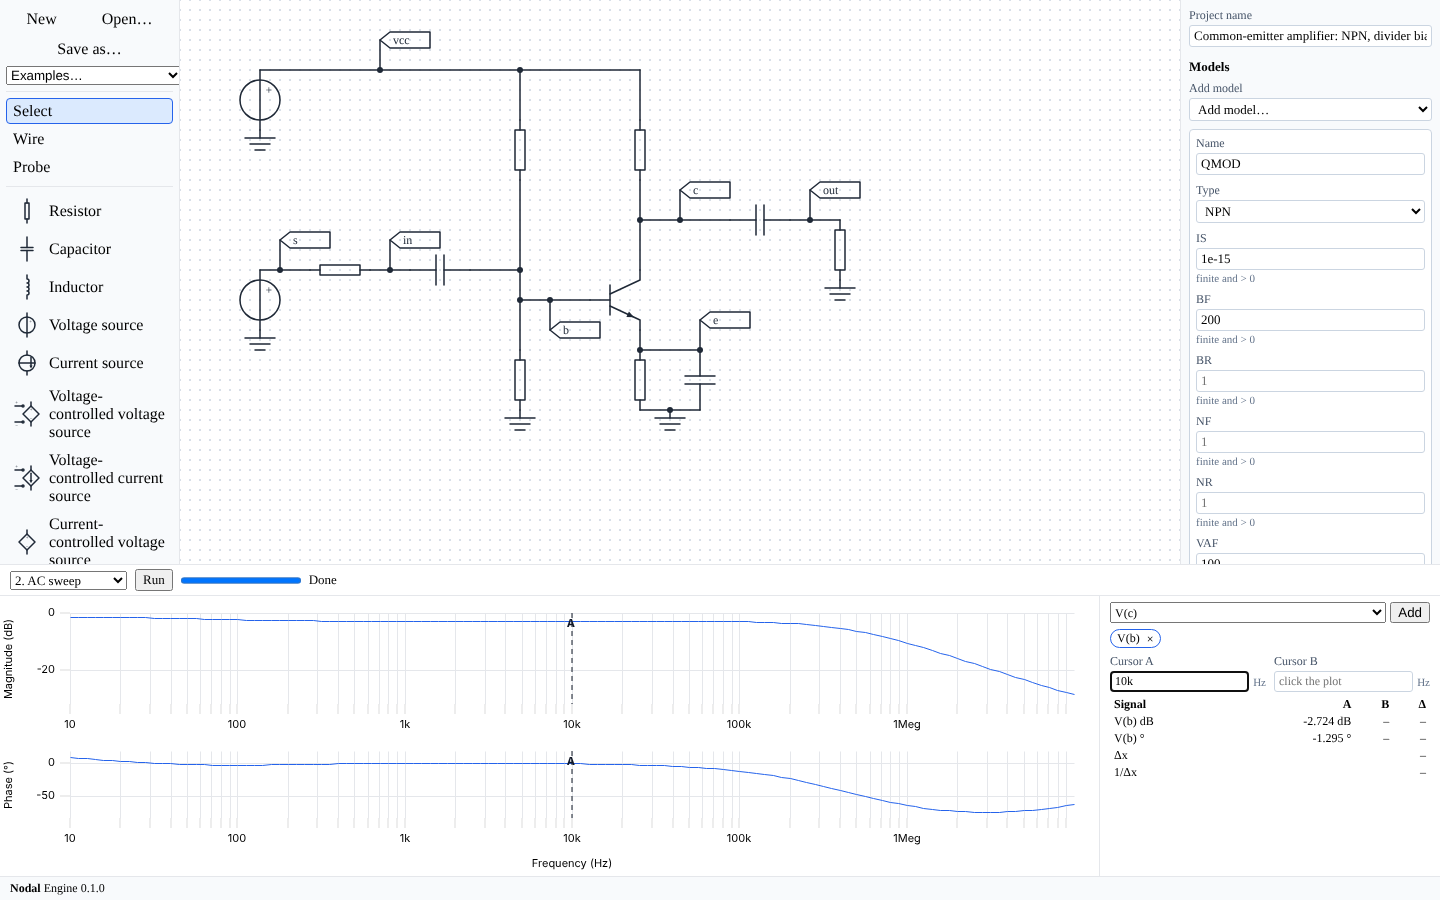
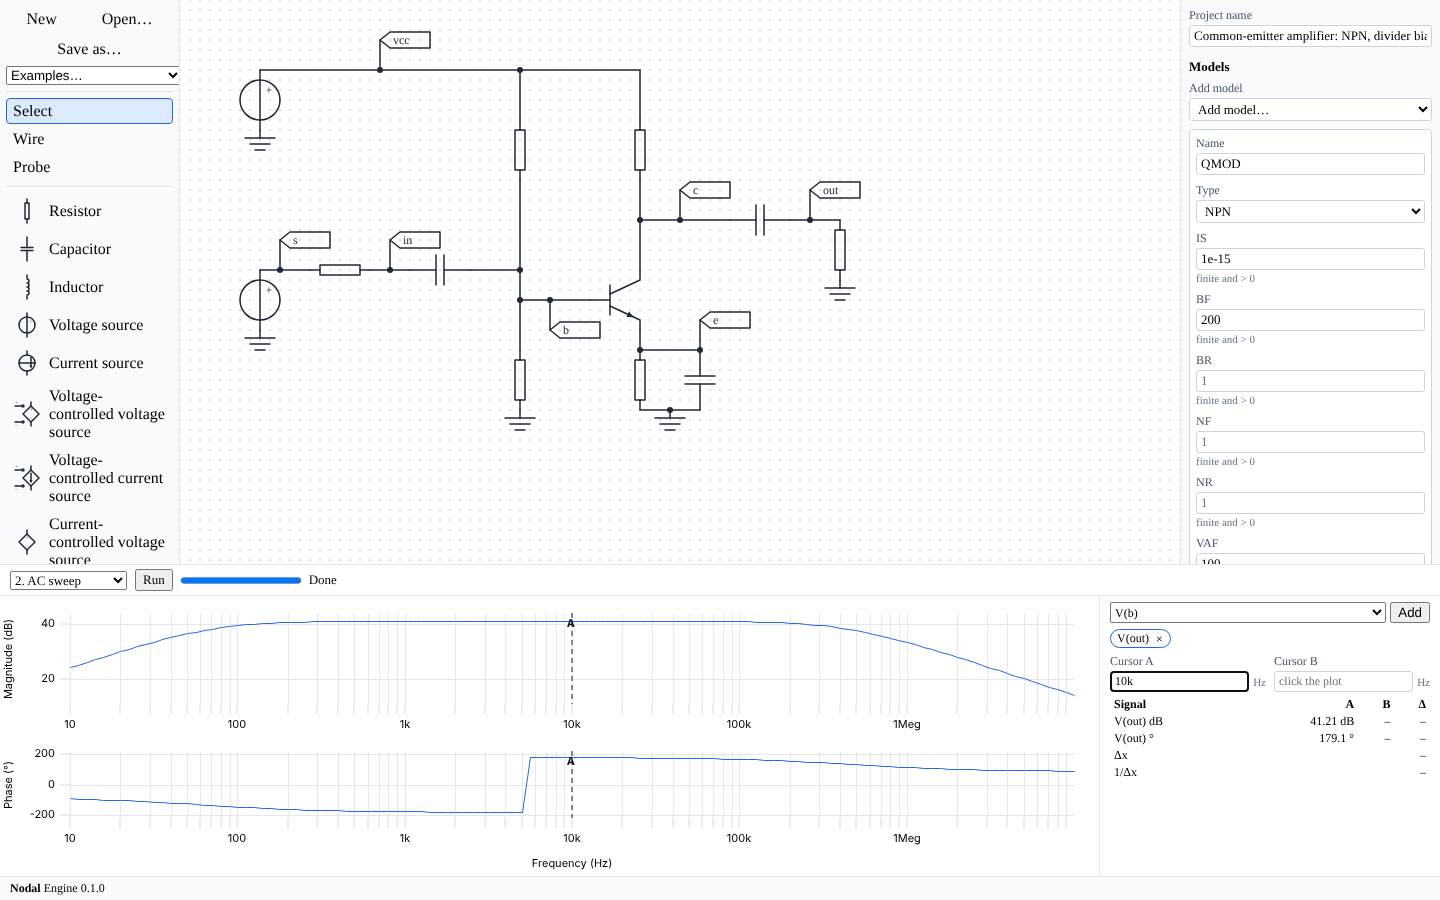
docs: user guide screenshot and wording fixes

diff --git a/apps/web/e2e/guide.screenshots.ts b/apps/web/e2e/guide.screenshots.ts
@@ -79,6 +79,11 @@ test("Bode view of the CE amplifier", async ({ page }) => {
   // Analyses are [op, ac, tran].
   await runAnalysis(page, 1);
   await expect(page.getByTestId("waveform-panel").getByTestId("plot")).toHaveCount(2);
+  // The default probe is the flat base node; show the amplifier output instead.
+  await page.getByLabel("Signal", { exact: true }).selectOption("V(out)");
+  await page.getByRole("button", { name: "Add", exact: true }).click();
+  await page.getByRole("button", { name: "Remove V(b)" }).click();
+  await expect(page.locator('[data-probe="V(out)"]')).toBeVisible();
   const setCursor = async (label: string, text: string) => {
     const input = page.getByLabel(label, { exact: true });
     await input.fill(text);

diff --git a/docs/user-guide.md b/docs/user-guide.md
@@ -32,7 +32,7 @@ Keyboard shortcuts work on the canvas and are ignored while you type in a field:
 | Key | Action |
 |---|---|
 | `R` | Rotate the part being placed, or the selection, by 90 degrees |
-| `X` | Mirror the part being placed, or the selection |
+| `X` | Mirror the part being placed, or the selection (it does nothing to a net label) |
 | `W` | Wire tool |
 | `P` | Probe tool |
 | `Esc` | Cancel the wire in progress, then return to the Select tool, then clear the selection |
@@ -44,7 +44,7 @@ The Select tool is the default. Click a part to select it, Shift+click to add or
 
 ### Wires
 
-Press `W` or choose Wire. Click a pin to start, then click to fix each corner. The preview between clicks is an L shape that runs horizontally first. Press `/` to switch it to vertical first. The wire ends when you click a pin, a net label anchor, the end of another wire or a point on another wire. You can also end it with Enter or a double click, which keeps the points you have clicked so far. `Esc` discards a wire in progress.
+Press `W` or choose Wire. A wire starts wherever you click, so click a pin to start from it, then click to fix each corner. The preview between clicks is an L shape that runs horizontally first. Press `/` to switch it to vertical first. The wire ends when you click a pin, a net label anchor, the end of another wire or a point on another wire. You can also end it with Enter or a double click, which keeps the points you have clicked so far. `Esc` discards a wire in progress.
 
 A wire is one conductor. Bends and crossings are not connections. Two wires join only where one ends on the other or on a pin.
 
